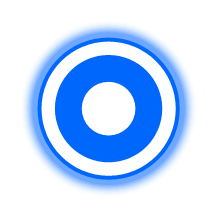
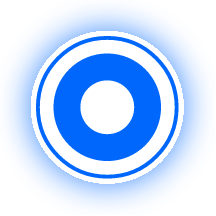
fix: 아이콘 svg로 변경, 접근성 유형별에 사용자가 택한 시도/시군구 반영되도록 수정

diff --git a/lib/screen/search/explore_screen.dart b/lib/screen/search/explore_screen.dart
@@ -2,6 +2,7 @@ import 'package:cached_network_image/cached_network_image.dart';
 import 'package:flutter/material.dart';
 import 'package:flutter_riverpod/flutter_riverpod.dart';
 import 'package:flutter_screenutil/flutter_screenutil.dart';
+import 'package:flutter_svg/flutter_svg.dart';
 import '../../model/accessibility/accessibility_field.dart';
 import '../../model/accessibility/accessibility_field_mapping.dart';
 import '../../model/accessibility/accessibility_profile.dart';
@@ -181,17 +182,15 @@ class _ExploreScreenState extends ConsumerState<ExploreScreen> {
     _applyDefaultRegion();
   }
 
-  /// 유저 계정에 저장된 관심 지역(시/도+시/군구)을 필터로 미리 채워둔다.
-  /// area_codes.json을 읽어야 해서 비동기다 — 완료되기 전까지는 지역 필터가
-  /// 비어 보이다가 잠시 뒤 채워진다(ExploreFilterScreen의 지역 탭 로딩과
-  /// 같은 성격의 지연).
-  Future<void> _applyDefaultRegion() async {
+  /// 유저 계정에 저장된 관심 지역(시/도+시/군구)을 AreaCode/SigunguCode로
+  /// 변환한다. area_codes.json을 읽어야 해서 비동기다. 저장된 지역이 없거나
+  /// (탈퇴/개편 등으로) 더 이상 존재하지 않는 코드면 null.
+  Future<({AreaCode sido, Set<SigunguCode> sigungus})?> _resolveUserRegion() async {
     final user = ref.read(authStateProvider).user;
     final sidoCode = user?.interestSidoCode;
-    if (sidoCode == null) return;
+    if (sidoCode == null) return null;
 
     final areaCodes = await AreaCodeRepository.load();
-    if (!mounted) return;
 
     AreaCode? sido;
     for (final area in areaCodes) {
@@ -200,21 +199,45 @@ class _ExploreScreenState extends ConsumerState<ExploreScreen> {
         break;
       }
     }
-    if (sido == null) return;
+    if (sido == null) return null;
 
     final savedSigunguCodes = user?.interestSigunguCodes ?? const [];
     final sigungus = sido.sigungu
         .where((sg) => savedSigunguCodes.contains(sg.code))
         .toSet();
+    return (sido: sido, sigungus: sigungus);
+  }
 
+  /// 유저 계정에 저장된 관심 지역(시/도+시/군구)을 필터로 미리 채워둔다.
+  /// 완료되기 전까지는 지역 필터가 비어 보이다가 잠시 뒤 채워진다
+  /// (ExploreFilterScreen의 지역 탭 로딩과 같은 성격의 지연).
+  Future<void> _applyDefaultRegion() async {
+    final region = await _resolveUserRegion();
+    if (!mounted || region == null) return;
     setState(() {
-      _selectedSido = sido;
-      _selectedSigungus = sigungus;
+      _selectedSido = region.sido;
+      _selectedSigungus = region.sigungus;
     });
   }
 
+  /// 유저 계정에 저장된 관심 지역(시/도+시/군구)이 있으면 필터에 채워 넣고,
+  /// 없으면 지역 없이(=접근성 대분류만으로 전국 대상) 검색을 실행한다.
+  Future<void> _applyRegionAndSearch() async {
+    final region = await _resolveUserRegion();
+    if (!mounted) return;
+    if (region != null) {
+      setState(() {
+        _selectedSido = region.sido;
+        _selectedSigungus = region.sigungus;
+      });
+    }
+    _handleSearch();
+  }
+
   /// 지역/카테고리/검색어 등 기존 필터를 전부 지운 뒤 [profile] 대분류만
-  /// 켜고 상세 카테고리는 "전체"(빈 Set)로 맞춰 바로 검색을 실행한다.
+  /// 켜고 상세 카테고리는 "전체"(빈 Set)로 맞춘다. 유저 계정에 저장된 관심
+  /// 지역이 있으면 그 지역까지 좁혀서, 없으면 대분류만으로 전국을 대상으로
+  /// 바로 검색을 실행한다.
   void _applyPendingAccessibilityRequest(AccessibilityProfile profile) {
     _selectedSido = null;
     _selectedSigungus = {};
@@ -225,7 +248,7 @@ class _ExploreScreenState extends ConsumerState<ExploreScreen> {
     WidgetsBinding.instance.addPostFrameCallback((_) {
       if (!mounted) return;
       ref.read(pendingAccessibilityRequestProvider.notifier).state = null;
-      _handleSearch();
+      _applyRegionAndSearch();
     });
   }
 
@@ -498,7 +521,7 @@ class _ExploreScreenState extends ConsumerState<ExploreScreen> {
       });
       _searchController.clear();
       ref.read(pendingAccessibilityRequestProvider.notifier).state = null;
-      _handleSearch();
+      _applyRegionAndSearch();
     });
 
     return Stack(
@@ -912,8 +935,8 @@ class _EmptyResultState extends StatelessWidget {
       child: Column(
         mainAxisSize: MainAxisSize.min,
         children: [
-          Image.asset(
-            'assets/images/explore/empty_search.png',
+          SvgPicture.asset(
+            'assets/images/explore/empty_search.svg',
             width: 60.r,
             height: 60.r,
           ),

diff --git a/lib/screen/home_screen.dart b/lib/screen/home_screen.dart
@@ -5,6 +5,7 @@ import 'package:cached_network_image/cached_network_image.dart';
 import 'package:flutter/material.dart';
 import 'package:flutter_riverpod/flutter_riverpod.dart';
 import 'package:flutter_screenutil/flutter_screenutil.dart';
+import 'package:flutter_svg/flutter_svg.dart';
 import 'package:geolocator/geolocator.dart';
 import 'package:wayable/model/accessibility/accessibility_profile.dart';
 import 'package:wayable/model/region/area_code.dart';
@@ -87,9 +88,9 @@ const _kAccessibilityCardImageScale = {
 };
 
 const _kRankBadgeImages = {
-  1: 'assets/images/home/ranking_1st.png',
-  2: 'assets/images/home/ranking_2nd.png',
-  3: 'assets/images/home/ranking_3rd.png',
+  1: 'assets/images/home/ranking_1st.svg',
+  2: 'assets/images/home/ranking_2nd.svg',
+  3: 'assets/images/home/ranking_3rd.svg',
   4: 'assets/images/home/ranking_4th.png',
   5: 'assets/images/home/ranking_5th.png',
 };
@@ -1319,6 +1320,10 @@ class _HomeScreenState extends ConsumerState<HomeScreen> {
   }
 
   Widget _buildRankBadge(int rank) {
-    return Image.asset(_kRankBadgeImages[rank]!, width: 28.w, height: 35.h);
+    final path = _kRankBadgeImages[rank]!;
+    if (path.endsWith('.svg')) {
+      return SvgPicture.asset(path, width: 28.w, height: 35.h);
+    }
+    return Image.asset(path, width: 28.w, height: 35.h);
   }
 }

diff --git a/lib/screen/auth/landing.dart b/lib/screen/auth/landing.dart
@@ -1,6 +1,7 @@
 import 'package:flutter/material.dart';
 import 'package:flutter_riverpod/flutter_riverpod.dart';
 import 'package:flutter_screenutil/flutter_screenutil.dart';
+import 'package:flutter_svg/flutter_svg.dart';
 import 'package:wayable/navigation/main_shell.dart';
 import 'package:wayable/providers/auth_provider.dart';
 import 'package:wayable/screen/auth/login_screen.dart';
@@ -107,8 +108,8 @@ class _LandingPageState extends ConsumerState<LandingPage> {
                   createRectTween: (begin, end) =>
                       _EasedRectTween(begin: begin, end: end),
                   child: ExcludeSemantics(
-                    child: Image.asset(
-                      'assets/images/common/wayable.png',
+                    child: SvgPicture.asset(
+                      'assets/images/common/wayable.svg',
                       width: 123.w,
                       height: 125.h,
                     ),

diff --git a/lib/screen/auth/login_screen.dart b/lib/screen/auth/login_screen.dart
@@ -1,6 +1,7 @@
 import 'package:flutter/material.dart';
 import 'package:flutter_riverpod/flutter_riverpod.dart';
 import 'package:flutter_screenutil/flutter_screenutil.dart';
+import 'package:flutter_svg/flutter_svg.dart';
 import 'package:wayable/theme/app_colors.dart';
 import '../../providers/auth_provider.dart';
 import '../../navigation/main_shell.dart';
@@ -92,8 +93,8 @@ class _LoginScreenState extends ConsumerState<LoginScreen> {
                   child: Hero(
                     tag: 'app_logo',
                     child: ExcludeSemantics(
-                      child: Image.asset(
-                        'assets/images/common/wayable.png',
+                      child: SvgPicture.asset(
+                        'assets/images/common/wayable.svg',
                         width: 106.w,
                         height: 108.h,
                         fit: BoxFit.contain,

diff --git a/lib/screen/search/map_screen.dart b/lib/screen/search/map_screen.dart
@@ -61,7 +61,8 @@ const _kKeywordSearchPageSize = 600;
 
 /// 활성/비활성 핀 크기. 이미지 자체는 실제 검색결과 화면(831:763 등)에서 쓰인
 /// 원본 컴포넌트인 피그마 노드 643:222(Group 147, 활성)/643:221(Group 146, 비활성)를
-/// 그대로 내려받은 asset(assets/images/explore/map_pin_active.png·map_pin_inactive.png).
+/// 내려받은 SVG를 래스터화한 asset(assets/images/explore/map_pin_active.png·map_pin_inactive.png).
+/// 카카오맵 SDK의 POI 아이콘(KImage.fromAsset)이 비트맵만 지원해 SVG를 직접 쓸 수 없다.
 /// (643:224/226은 이름만 비슷한 별도 초안 도형이라 실제로 쓰이는 노드가 아니었음.)
 const _kActivePinSize = 32.0;
 const _kInactivePinSize = 16.0;

diff --git a/lib/providers/navigation_provider.dart b/lib/providers/navigation_provider.dart
@@ -16,7 +16,9 @@ const kMemberOnlyTabs = {BottomNavTab.myPage, BottomNavTab.bookmark};
 
 /// 홈 화면의 "무장애 여행" 카드를 눌렀을 때, 맞춤 여행지 탐색 탭이 어떤
 /// 접근성 대분류(상세 카테고리는 전체)로 바로 검색된 상태를 보여줄지 담아둔다.
-/// ExploreScreen이 이 값을 소비한 뒤 다시 null로 비운다.
+/// ExploreScreen이 이 값을 소비하면서 유저 계정에 저장된 관심 지역(시/도+
+/// 시/군구)이 있으면 같이 채워 넣고, 없으면 대분류만으로 전국을 검색한다.
+/// 소비한 뒤에는 다시 null로 비운다.
 final pendingAccessibilityRequestProvider =
     StateProvider<AccessibilityProfile?>((ref) => null);
 

diff --git a/lib/widgets/top_logo_banner.dart b/lib/widgets/top_logo_banner.dart
@@ -1,5 +1,6 @@
 import 'package:flutter/material.dart';
 import 'package:flutter_screenutil/flutter_screenutil.dart';
+import 'package:flutter_svg/flutter_svg.dart';
 import '../theme/app_colors.dart';
 
 /// 상단 로고 배너. 화면 최상단에 고정으로 붙는 공통 헤더.
@@ -25,8 +26,8 @@ class TopLogoBanner extends StatelessWidget {
         height: kToolbarHeight.h,
         child: Center(
           child: ExcludeSemantics(
-            child: Image.asset(
-              'assets/images/common/wayable.png',
+            child: SvgPicture.asset(
+              'assets/images/common/wayable.svg',
               height: 28.h,
             ),
           ),
